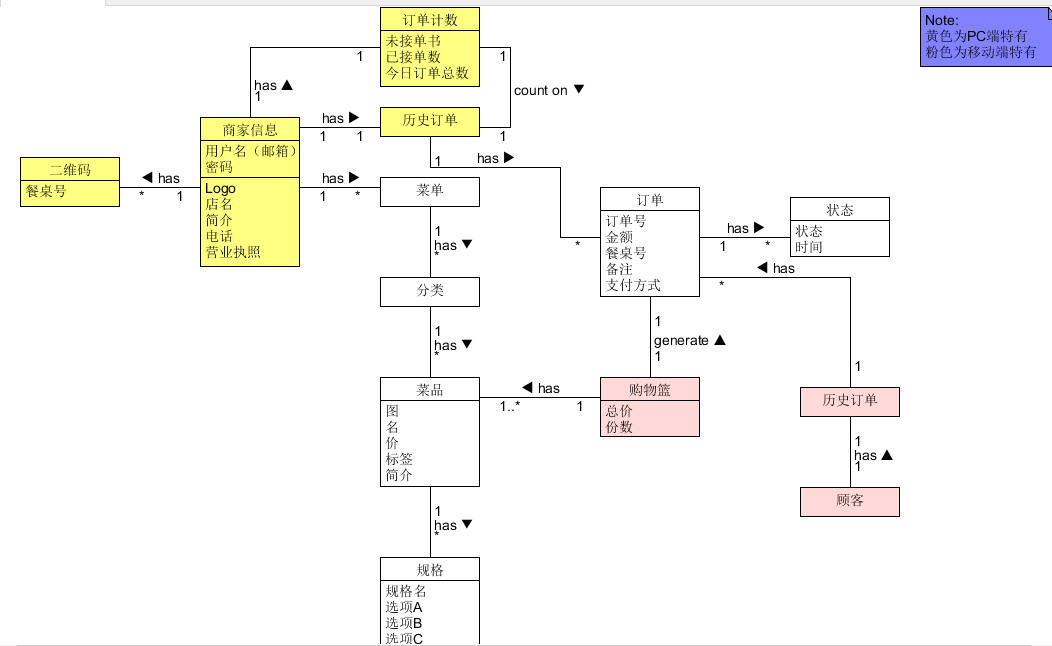
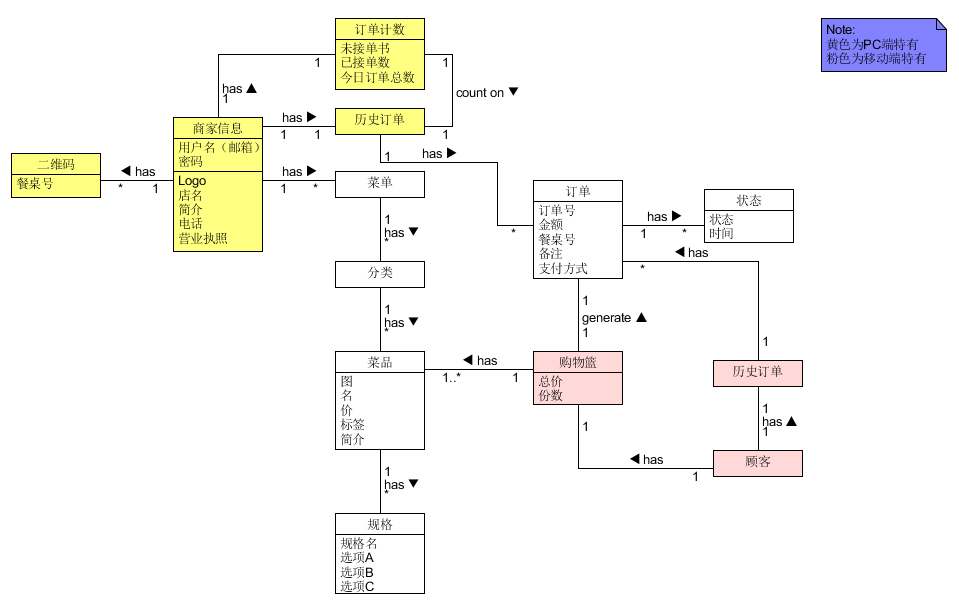
modify domain model according to reviewer and issue #5 & #2

diff --git a/README.md b/README.md
@@ -9,7 +9,7 @@
 	- 6.1 [Usecase Diagram（用例图）](https://github.com/Baoleme/Dashboard/blob/master/img_usecases)
 	- 6.2 [Use Cases（用例+活动图）](https://github.com/Baoleme/Dashboard/blob/master/doc_usecases)
 	- 6.3 [Domain Model（领域模型）](https://github.com/Baoleme/Dashboard/blob/master/image/%E9%A2%86%E5%9F%9F%E6%A8%A1%E5%9E%8B.png)
-	- 6.4 [State Model（状态模型）](https://github.com/Baoleme/Dashboard/tree/master/image/订单状态图.jpg)
+	- 6.4 [State Model（状态模型）](https://github.com/Baoleme/Dashboard/tree/master/image/订单状态图.png)
 7. Design(设计)
 	- 7.1 UI design
 		- [PC端登录注册流程UI设计](https://github.com/Baoleme/Dashboard/blob/master/UI/login&register/login&register.md)
